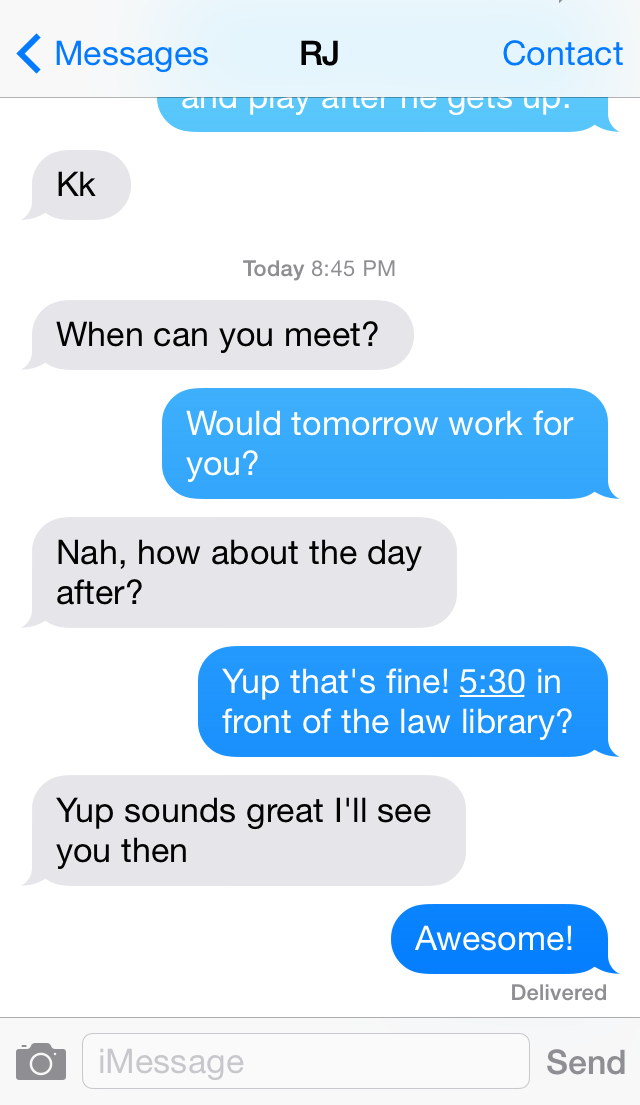
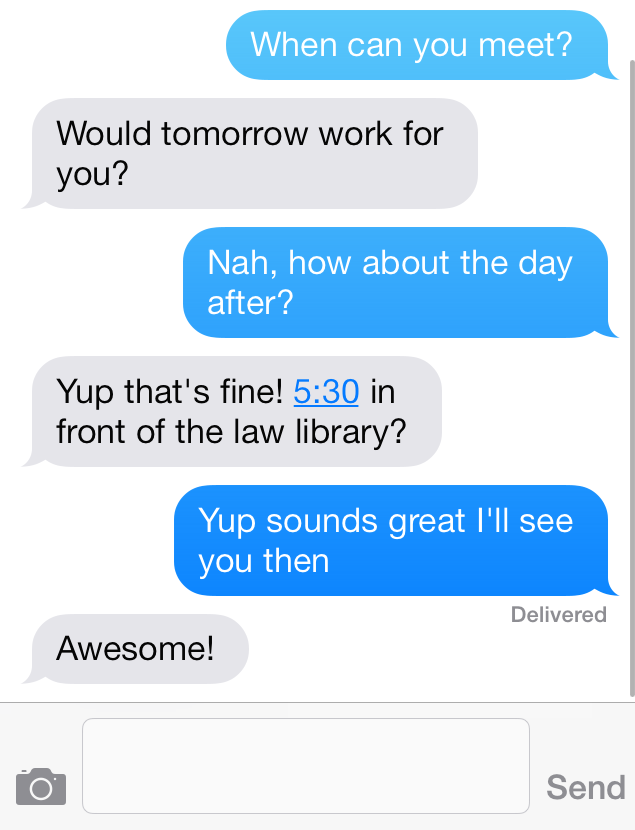
styling
michigan colors and logos added. home page recent items added,
conversation added

diff --git a/www/templates/home.html b/www/templates/home.html
@@ -1,8 +1,11 @@
-<ion-view title="Home">
+<ion-view title="University Of Michigan">
     <ion-nav-buttons side="left">
         <button class="button button-icon" ng-click="showCatergories()">
             <i class="icon ion-navicon"></i>
         </button>
+    </ion-nav-buttons>
+    <ion-nav-buttons side="right">
+        <div><img src="img/michigan.png"/></a></div>
     </ion-nav-buttons>
     <ion-content padding="true">
         <div class="bar bar-header item-input-inset">
@@ -13,6 +16,9 @@
             <button class="button button-clear">
                 Cancel
             </button>
+        </div>
+        <div class="item-divider text-center">
+            Recently Listed
         </div>
         <div class="row">
             <div class="col col-50"><a href="#/tab/selectedItem" ng-click="itemClicked(0)"><img src="img/couch.jpg"/></a></div>

diff --git a/www/templates/signin.html b/www/templates/signin.html
@@ -1,4 +1,4 @@
-<ion-view title="Login">
+<ion-view title="Room">
     <ion-content>
         <div class="list">
             <label class="item item-input">
@@ -11,7 +11,7 @@
             </label>
         </div>
         <div class="padding">
-            <button class="button button-block varun" ng-click="signIn(user)">
+            <button class="button button-block flatblue" ng-click="signIn(user)">
                 Sign-In
             </button>
             <h5 class="text-center"> Dont have an account? <a href="#/register">Register Here</a></h5>

diff --git a/www/css/style.css b/www/css/style.css
@@ -4,15 +4,15 @@ img, a {
 }
 
 .tabs-puja > .tabs, .tabs.tabs-puja {
-    border-color: #3498db;
-    background-color: #3498db;
-    background-image: linear-gradient(0deg, #3498db, #3498db 50%, transparent 50%);
+    border-color: #003e78;
+    background-color: #003e78;
+    background-image: linear-gradient(0deg, #003e78, #003e78 50%, transparent 50%);
     color: #fff;
 }
 
 .flatblue{
-    border-color: #3498db;
-    background-color: #3498db;
+    border-color: #003e78;
+    background-color: #003e78;
     color: #fff;
 }
 

diff --git a/www/templates/conversation.html b/www/templates/conversation.html
@@ -1,7 +1,11 @@
+<ion-view title="Messages">
+    <ion-nav-buttons side="right">
+        <div><img src="img/michigan.png"/></a></div>
+    </ion-nav-buttons>
     <ion-content padding="false">
         <!-- Messages Image -->
         <div class="row">
-            <img src="img/conversation.PNG"/>
+           <img style="height: 470px;padding-top:50;" src="img/conversation.png"/>
         </div>
     </ion-content>
-
+</ion-view>

diff --git a/www/templates/furniture.html b/www/templates/furniture.html
@@ -1,8 +1,6 @@
 <ion-view title="Furniture">
-    <ion-nav-buttons side="left">
-        <button class="button button-icon" ng-click="showCatergories()">
-            <i class="icon ion-navicon"></i>
-        </button>
+    <ion-nav-buttons side="right">
+        <div><img src="img/michigan.png"/></a></div>
     </ion-nav-buttons>
     <ion-content padding="true">
         <div class="bar bar-header item-input-inset">

diff --git a/www/index.html b/www/index.html
@@ -20,7 +20,7 @@
 
   <body>
     
-    <ion-nav-bar class="bar-positive nav-title-slide-ios7" style="background-color:#3498db;">
+    <ion-nav-bar class="bar-positive nav-title-slide-ios7" style="background-color:#003e78;">
       <ion-nav-back-button class="button-icon ion-arrow-left-c">
       </ion-nav-back-button>
     </ion-nav-bar>

diff --git a/www/templates/reserved.html b/www/templates/reserved.html
@@ -1,4 +1,7 @@
 <ion-view title="Reserved Items">
+    <ion-nav-buttons side="right">
+        <div><img src="img/michigan.png"/></a></div>
+    </ion-nav-buttons>
     <ion-content padding="false">
         <div class="bar bar-header item-input-inset">
             <label class="item-input-wrapper">

diff --git a/www/templates/messages.html b/www/templates/messages.html
@@ -1,4 +1,7 @@
 <ion-view title="Messages">
+    <ion-nav-buttons side="right">
+        <div><img src="img/michigan.png"/></a></div>
+    </ion-nav-buttons>
     <ion-content padding="false">
         <!-- Messages Image -->
         <div class="row">

diff --git a/www/templates/transact.html b/www/templates/transact.html
@@ -1,4 +1,7 @@
 <ion-view title="Transact">
+    <ion-nav-buttons side="right">
+        <div><img src="img/michigan.png"/></a></div>
+    </ion-nav-buttons>
     <ion-content padding="true">
 
         <div class="row" style="padding-top:20px;">

diff --git a/www/templates/selectedItem.html b/www/templates/selectedItem.html
@@ -1,4 +1,7 @@
 <ion-view title="{{itemname}}">
+    <ion-nav-buttons side="right">
+        <div><img src="img/michigan.png"/></a></div>
+    </ion-nav-buttons>
     <ion-content padding="true">
 
         <!-- Product Image -->

diff --git a/www/templates/myroom.html b/www/templates/myroom.html
@@ -1,4 +1,7 @@
 <ion-view title="My Room">
+    <ion-nav-buttons side="right">
+        <div><img src="img/michigan.png"/></a></div>
+    </ion-nav-buttons>
     <ion-content padding="false">
         <div class="list">
 

diff --git a/www/templates/sell.html b/www/templates/sell.html
@@ -1,4 +1,7 @@
 <ion-view title="Sell Item">
+    <ion-nav-buttons side="right">
+        <div><img src="img/michigan.png"/></a></div>
+    </ion-nav-buttons>
     <ion-content padding="true">
 
         <div class="row">
